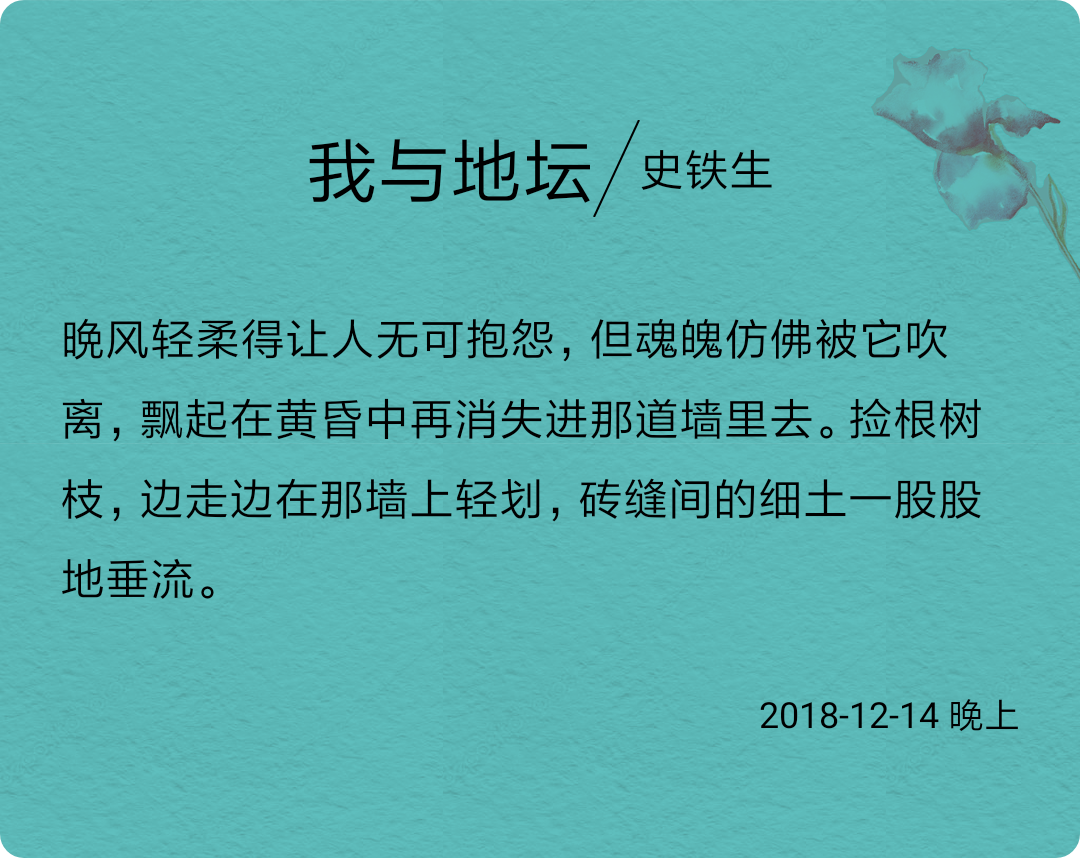
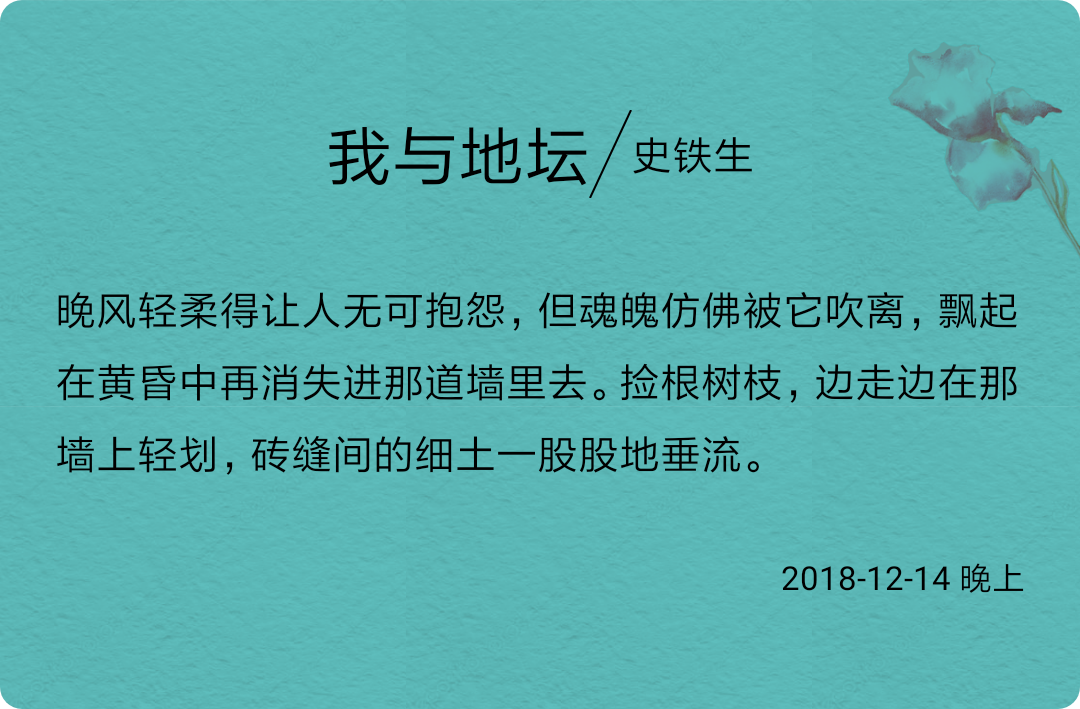
Make sure showcases are consistency

diff --git a/README.md b/README.md
@@ -18,4 +18,4 @@ showed below.
 <img src="assets/poetry_shadow.png" width="550" height="704">
 
 ### Template Dream
-<img src="assets/dream_shadow.png" width="550" height="437">
+<img src="assets/dream_shadow.png" width="550" height="361">
